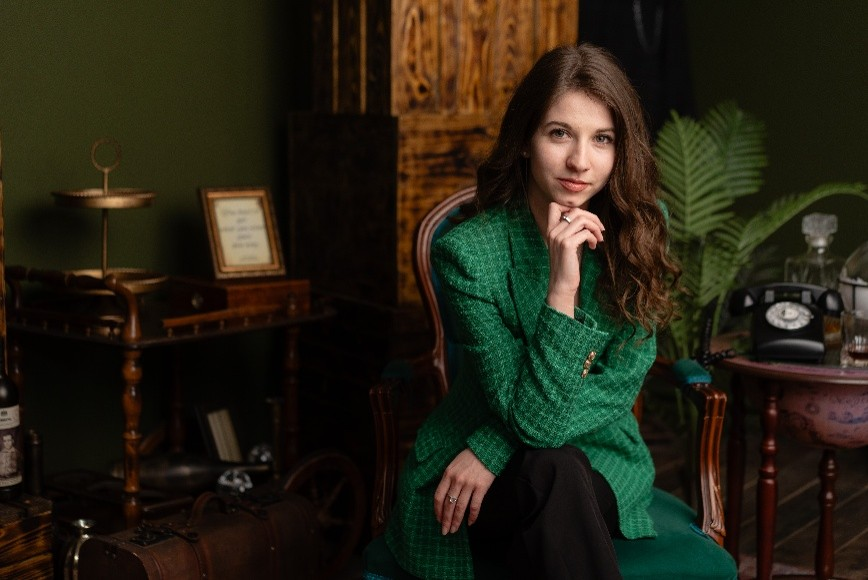
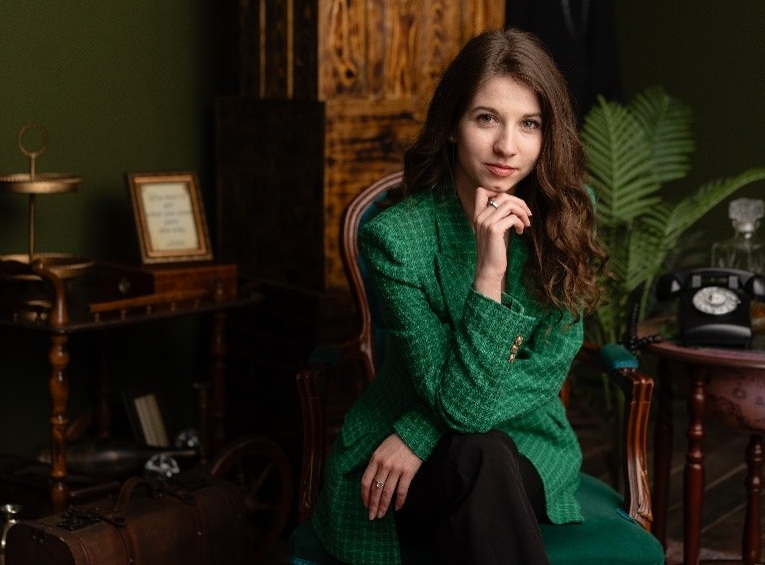
(feat, refactor) added content to my-services page; set the claymorphic shadow as a global variable to use it instead of hardcoding the values in different components

diff --git a/src/pages/my_services_page/my_services_page.tsx b/src/pages/my_services_page/my_services_page.tsx
@@ -20,6 +20,54 @@ export default function ServicesPage() {
                     description={'Spațiul în care ne întâlnim. Simplu, deschis și adaptat nevoilor tale.'}
                     imagePath={servicesPageCoverImagePath}>
                 </PageHeader>
+
+                <section className="services-section">
+                    <div className="services-intro">
+                        <p className="big-paragraph">
+                            În cadrul cabinetului ofer servicii psihologice în trei arii de specialitate:
+                        </p>
+                    </div>
+
+                    <div className="services-grid">
+                        <div className="service-card">
+                            <h2>Psihologie clinică</h2>
+                            <ul>
+                                <li>evaluare psihologică clinică;</li>
+                                <li>evaluarea personalității și a funcționării emoționale;</li>
+                                <li>consiliere psihologică;</li>
+                                <li>intervenție psihologică primară;</li>
+                                <li>autocunoaștere și dezvoltare personală;</li>
+                                <li>evaluări și documente psihologice, în funcție de scopul evaluării.</li>
+                            </ul>
+                        </div>
+
+                        <div className="service-card">
+                            <h2>Psihologia muncii și organizațională</h2>
+                            <ul>
+                                <li>evaluări psihologice pentru angajare și menținerea în activitate;</li>
+                                <li>evaluarea aptitudinilor și caracteristicilor psihologice relevante pentru diferite activități profesionale;</li>
+                                <li>evaluări psihologice periodice, în condițiile prevăzute de legislația aplicabilă;</li>
+                                <li>evaluări pentru schimbarea funcției sau a condițiilor de muncă, atunci când sunt necesare;</li>
+                                <li>avize psihologice de aptitudine, în limita competențelor profesionale și a cerințelor aplicabile fiecărui post.</li>
+                            </ul>
+                        </div>
+
+                        <div className="service-card">
+                            <h2>Psihologie aplicată în domeniul securității naționale</h2>
+                            <ul>
+                                <li>evaluări psihologice specifice domeniului;</li>
+                                <li>evaluarea aptitudinilor și a particularităților psihologice relevante pentru activitățile din acest domeniu;</li>
+                                <li>emiterea documentelor și avizelor psihologice corespunzătoare, în conformitate cu competențele profesionale și cerințele instituționale aplicabile.</li>
+                            </ul>
+                        </div>
+                    </div>
+
+                    <div className="evaluation-callout">
+                        <h2>Evaluare psihologică informatizată</h2>
+                        <p>Pentru evaluările care permit acest lucru, utilizez platforma <strong>CAS++</strong>, care facilitează administrarea, cotarea și interpretarea standardizată a instrumentelor psihologice disponibile în cadrul platformei.</p>
+                        <p>Fiecare evaluare este realizată în funcție de scopul acesteia, de particularitățile persoanei evaluate și de cerințele profesionale și legislative aplicabile.</p>
+                    </div>
+                </section>
             </main>
 
             <FooterSection />

diff --git a/src/pages/my_services_page/my_services_page.scss b/src/pages/my_services_page/my_services_page.scss
@@ -1,0 +1,65 @@
+.services-section {
+    display: flex;
+    flex-direction: column;
+    gap: 2rem;
+    padding-bottom: 4rem;
+
+    .big-paragraph {
+        font-size: clamp(1.2rem, 3vw, 1.8rem);
+        margin-top: 0;
+    }
+
+    h2 {
+        font-size: 1.4rem;
+        margin-top: 0;
+        margin-bottom: 1rem;
+    }
+
+    .services-intro {
+        text-align: center;
+    }
+
+    .services-grid {
+        display: grid;
+        grid-template-columns: 1fr;
+        gap: 2rem;
+
+        @media (min-width: 900px) {
+            grid-template-columns: repeat(3, 1fr);
+            align-items: start;
+        }
+    }
+
+    .service-card {
+        background: color-mix(in srgb, var(--color-bg) 50%, transparent);
+        border-radius: 12px;
+        padding: 2rem 1.5rem;
+        box-shadow: var(--shadow-claymorphic);
+
+        h2 {
+            padding-bottom: .5rem;
+            border-bottom: 1px solid color-mix(in srgb, black 20%, transparent);
+        }
+
+        ul {
+            list-style-type: disc;
+            padding-left: 1.25rem;
+            margin: 0;
+            display: flex;
+            flex-direction: column;
+            gap: 0.75rem;
+
+            li {
+                line-height: 1.5;
+                font-size: 1rem;
+                opacity: 0.9;
+            }
+        }
+    }
+
+    .evaluation-callout {
+        background: color-mix(in srgb, var(--color-bg) 50%, transparent);
+        padding: 2rem;
+        border-left: 4px solid var(--color-bg-darker);
+    }
+}

diff --git a/src/index.scss b/src/index.scss
@@ -40,6 +40,10 @@
   --margin-x-spacing-small: 1rem;
   --margin-y-spacing-small: 1rem;
   --margin-top-spacing: 40px;
+
+  --shadow-claymorphic: 9px 9px 20px -10px rgb(55, 55, 55),
+    inset -5px -5px 14px 0px var(--color-bg-darker),
+    inset 8px 8px 20px 0px white;
 }
 
 html {
@@ -60,6 +64,22 @@ body {
 *::before,
 *::after {
   box-sizing: inherit;
+}
+
+p {
+  font-size: 1.2rem;
+
+  @media (min-width: 600px) {
+    font-size: 1.4rem;
+  }
+}
+
+li {
+  font-size: 1.1rem;
+
+  @media (min-width: 600px) {
+    font-size: 1.2rem;
+  }
 }
 
 h1 {
@@ -101,17 +121,20 @@ a {
   }
 }
 
-section, .page-hero {
+section,
+.page-hero {
   padding: var(--margin-top-spacing) var(--margin-x-spacing-small);
 }
 
 @media (min-width: 768px) {
-  section, .page-hero {
+
+  section,
+  .page-hero {
     padding: var(--margin-top-spacing) var(--margin-x-spacing-large);
   }
 }
 
-/* -------------------------------------------------- */
+/* for suspended -------------------------------------------------- */
 
 .page-transition-fade {
   animation: pageFadeIn 0.4s cubic-bezier(0.16, 1, 0.3, 1) forwards;

diff --git a/index.html b/index.html
@@ -12,7 +12,7 @@
 
   <meta property="og:type" content="website" />
   <meta property="og:url" content="https://psihologioanaposirca.ro/" />
-  <meta property="og:title" content="Numele Tău | Psihoterapie" />
+  <meta property="og:title" content="Ioana Poșircă | Psiholog" />
   <meta property="og:description"
     content="Cabinet de consiliere psihologică. Te ajut să gestionezi anxietatea, stresul și să îți regăsești echilibrul." />
   <meta property="og:image" content="https://psihologioanaposirca.ro/thumbnail-image.jpg" />
@@ -68,6 +68,7 @@
 
       .init-loader-text {
         text-align: center;
+        padding: 10px;
       }
 
       @keyframes sk-bounce {

diff --git a/src/components/revealing_card/revealing_card.scss b/src/components/revealing_card/revealing_card.scss
@@ -7,9 +7,7 @@
     transform: none;
     border-radius: 10px;
     background: color-mix(in srgb, var(--color-bg) 100%, transparent);
-    box-shadow: 9px 9px 20px -10px rgb(55, 55, 55),
-        inset -5px -5px 14px 0px var(--color-bg-darker),
-        inset 8px 8px 20px 0px white;
+    box-shadow: var(--shadow-claymorphic);
 
     @supports (animation-timeline: view()) {
         animation: card-reveal linear both;

diff --git a/src/components/contact_form/contact_form.scss b/src/components/contact_form/contact_form.scss
@@ -6,10 +6,7 @@
     padding: 1rem;
     border-radius: 15px;
     background: color-mix(in srgb, var(--color-bg) 80%, transparent);
-    box-shadow:
-        9px 9px 20px -10px rgb(55, 55, 55),
-        inset -5px -5px 14px 0px var(--color-bg-darker),
-        inset 8px 8px 20px 0px white;
+    box-shadow: var(--shadow-claymorphic);
 
     opacity: 0;
     animation: formIn 0.5s ease-out forwards;

diff --git a/src/components/strap_with_info/strap_with_info.scss b/src/components/strap_with_info/strap_with_info.scss
@@ -8,9 +8,7 @@
 
     background: color-mix(in srgb, var(--color-bg) 80%, transparent);
     border-radius: 10px;
-    box-shadow: 9px 9px 20px -10px rgb(55, 55, 55),
-        inset -5px -5px 14px 0px var(--color-bg-darker),
-        inset 8px 8px 20px 0px white;
+    box-shadow: var(--shadow-claymorphic);
 
     opacity: 0;
     scale: 0.9;

diff --git a/src/sections/my_services/my_services_section.scss b/src/sections/my_services/my_services_section.scss
@@ -13,18 +13,6 @@
         }
     }
 
-    p {
-        @media (min-width: 600px) {
-            font-size: 1.4rem;
-        }
-    }
-
-    li {
-        @media (min-width: 600px) {
-            font-size: 1.2rem;
-        }
-    }
-
     .how-we-can-work,
     .how-we-can-work-options {
         clear: left;
